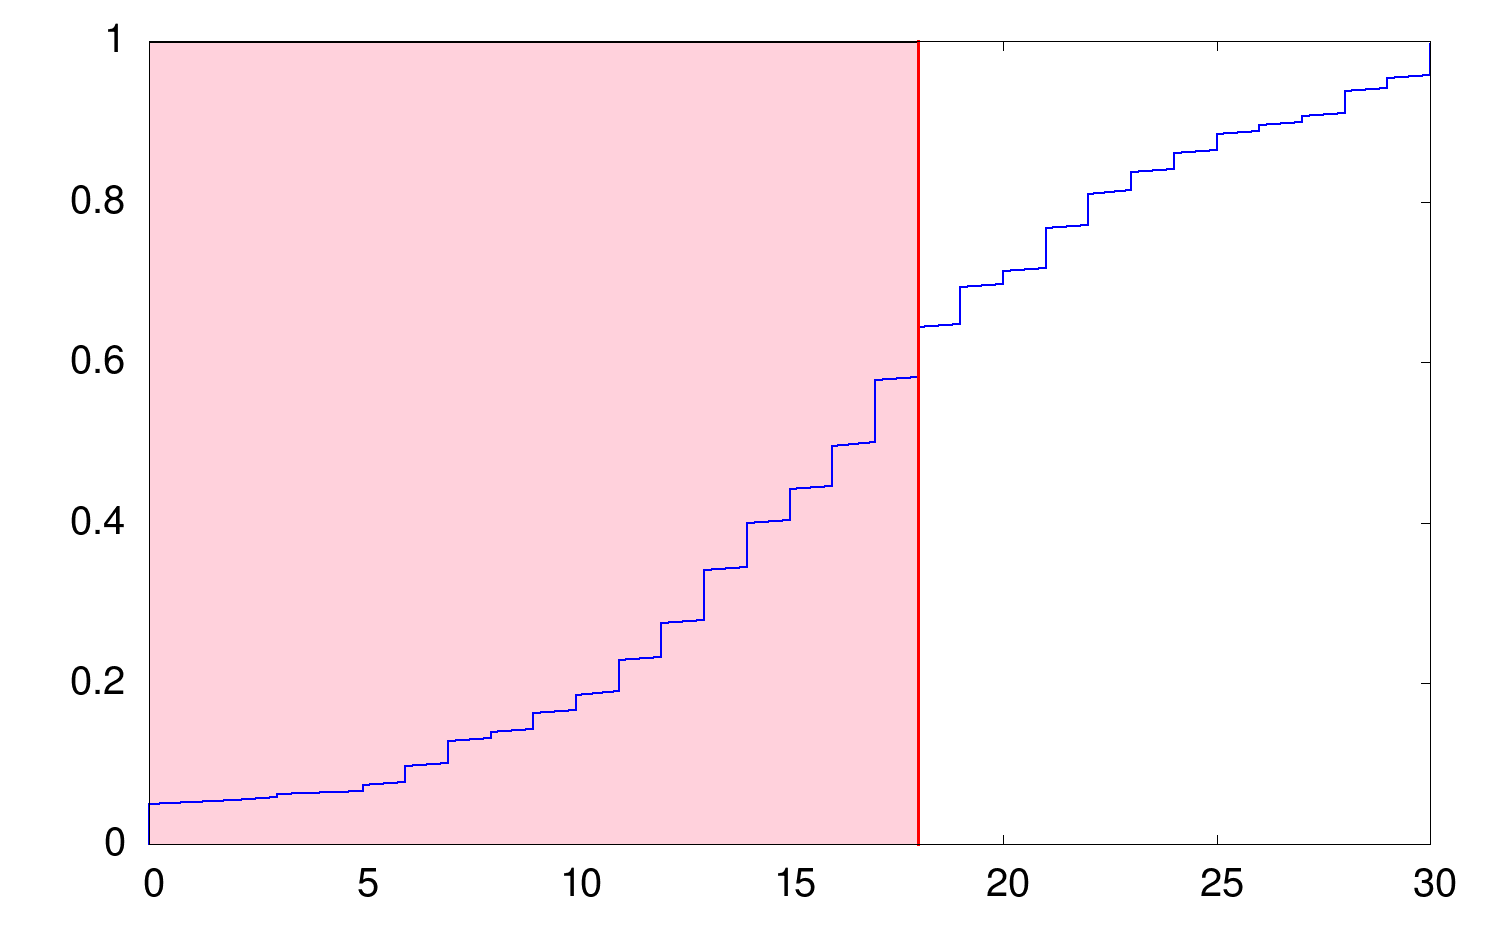
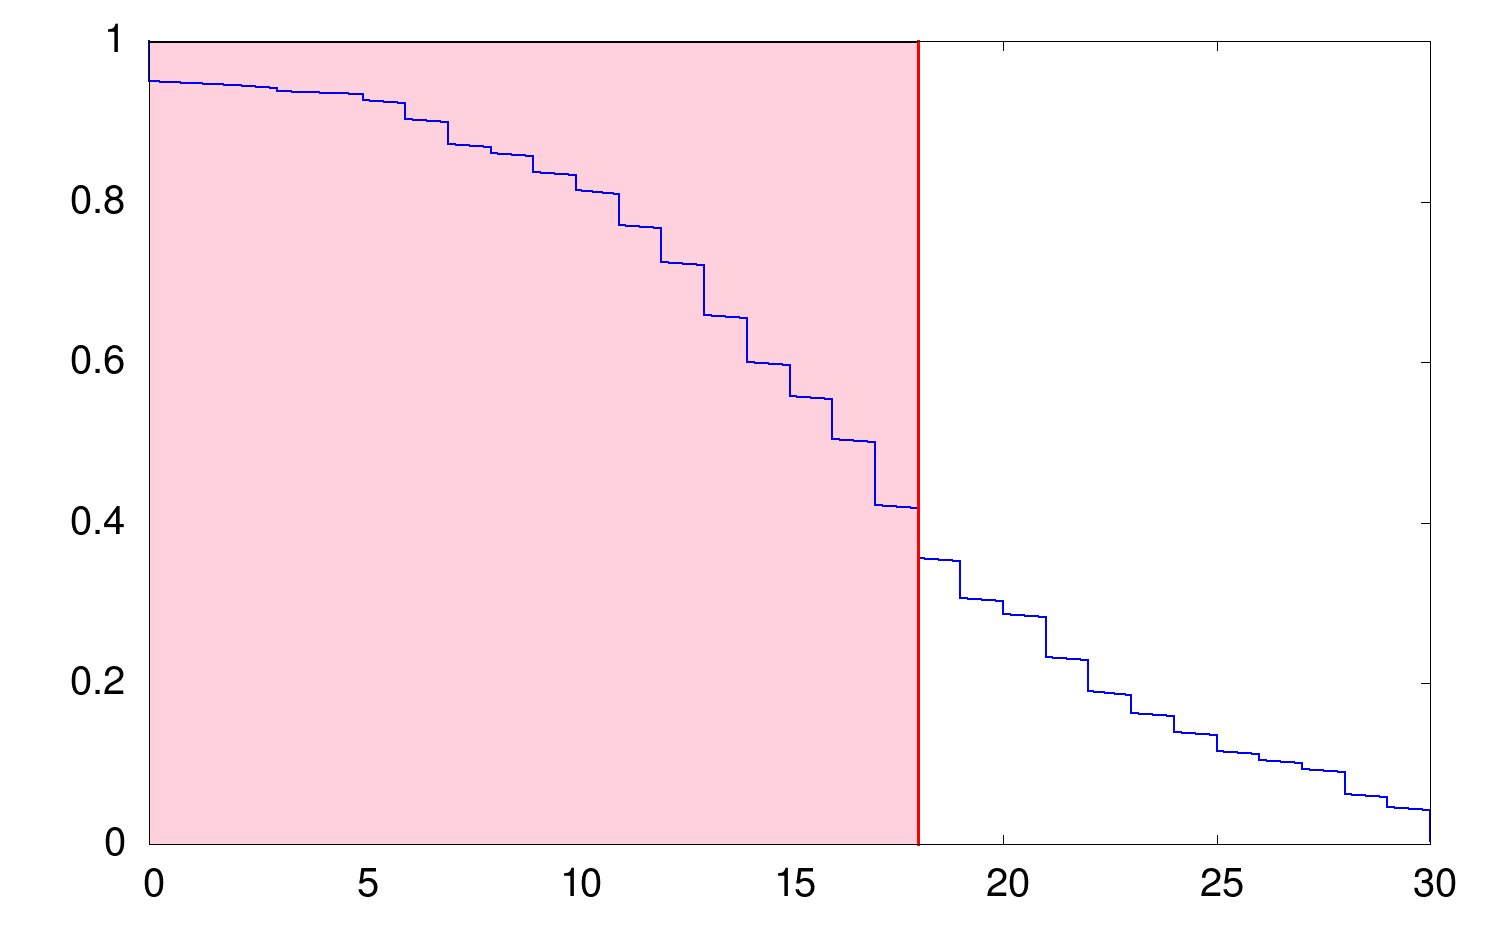
statistica

Changed region(s): [[0.736, 0.1812, 0.7667, 0.2114], [0.552, 0.4531, 0.5827, 0.4833]]

diff --git a/lectures/mr/index.html b/lectures/mr/index.html
@@ -798,7 +798,7 @@
 <p>Prova scritta e successiva prova orale; l&rsquo;ammissione all&rsquo;orale è subordinata al raggiungimento di un punteggio non inferiore a 15/30 nella prova scritta.</p>
 <figure class="image">
   <img src="voti.png" alt="Voti all'esame">
-  <figcaption>Voti dell'esame di Meccanica Razionale ad Architettura--Ingegneria in tutti gli esami scritti dall'autunno 2023. In zero appare la frazione di ritiri. Approssimativamente il 40% degli studenti raggiunge la sufficienza. </figcaption>
+  <figcaption>Voti dell'esame di Meccanica Razionale ad Architettura--Ingegneria in tutti gli esami scritti dall'autunno 2023 (i ritiri vengono contati come voto zero). La curva rappresenta in un punto *x* la frazione di studenti con voto maggiore di *x*. Approssimativamente il 40% degli studenti raggiunge la sufficienza. </figcaption>
 </figure>
 <h3 id="prove-passate">Prove passate</h3>
 <p>Le prove sono riportate con relativa soluzione.</p>
